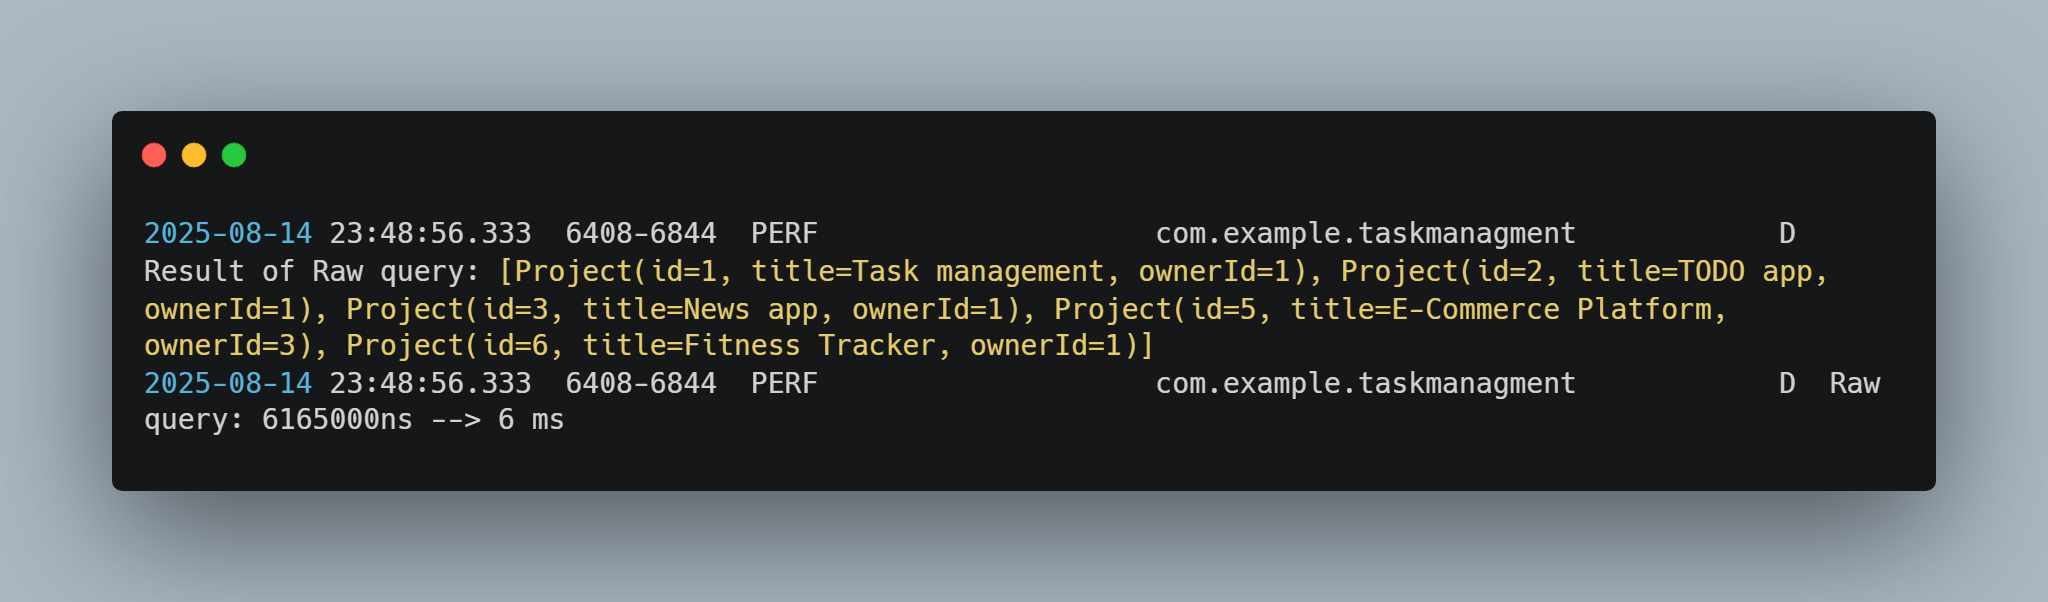
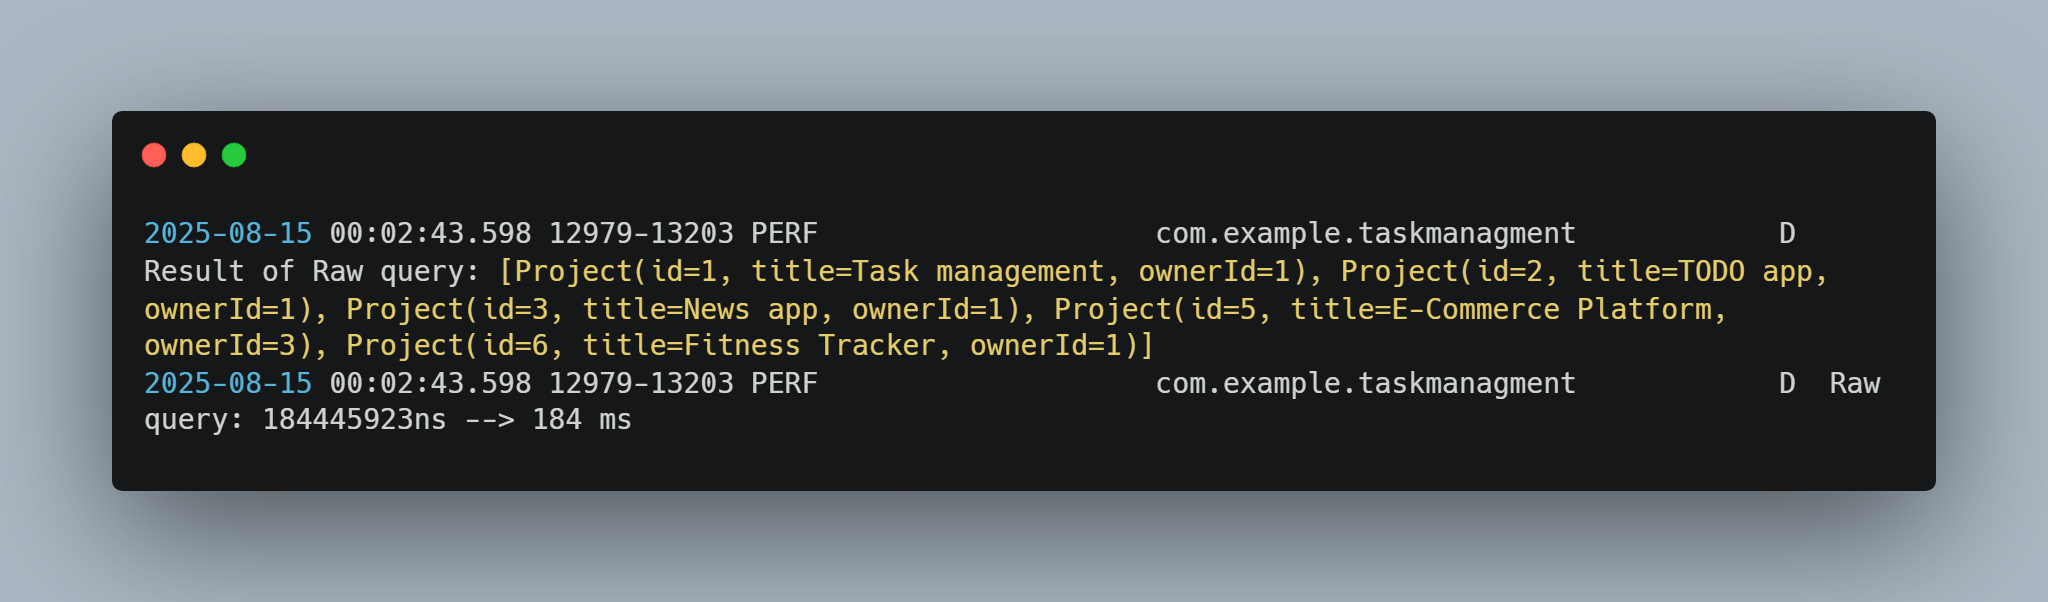
[🐞 BUG] Requirement 2.6 fixed 100 time execution

Changed region(s): [[0.125, 0.598, 0.375, 0.7176], [0.1562, 0.3588, 0.375, 0.4186]]

diff --git a/app/src/main/java/com/example/taskmanagment/testing/TestDatabase.kt b/app/src/main/java/com/example/taskmanagment/testing/TestDatabase.kt
@@ -247,11 +247,17 @@ suspend fun testQueryVsRawQuery(context: Context) {
 
     }
     var start = System.nanoTime()
+    for (i in 1..99) {
+        dao.getProjectsWithMoreThan3Tasks()
+    }
     var res = dao.getProjectsWithMoreThan3Tasks()
     var time = System.nanoTime() - start
     Log.d("PERF", "Result of Room query: $res")
     Log.d("PERF", "Room query: ${time}ns --> ${time / 1000000} ms")
     start = System.nanoTime()
+    for (i in 1..99) {
+        dao.getProjectsWithMoreThan3TasksRaw(getProjectsWithMoreThan3TasksQuery)
+    }
     res = dao.getProjectsWithMoreThan3TasksRaw(getProjectsWithMoreThan3TasksQuery)
     time = System.nanoTime() - start
     Log.d("PERF", "Result of Raw query: $res")

diff --git a/PerformanceReport.md b/PerformanceReport.md
@@ -1,4 +1,4 @@
-|            | Time (msec) | Note                                | Screenshots                               |
-| ---------- | ----------- | ----------------------------------- | ----------------------------------------- |
-| Room Query | 3 ms        | It's faster and easier in coding    | ![Room Query](screenshots/room_query.png) |
-| Raw Query  | 6 ms        | It's slower 2 times than Room query | ![Raw Query](screenshots/raw_query.png)   |
+|            | Time (msec) | Note                                                                                                  | Screenshots                               |
+| ---------- | ----------- | ----------------------------------------------------------------------------------------------------- | ----------------------------------------- |
+| Room Query | 168 ms      | It's faster and easier in coding but the difference isn't significant maybe because the data is small | ![Room Query](screenshots/room_query.png) |
+| Raw Query  | 184 ms      | It's slower than Room query but varies maybe because the data is small but most of time slower        | ![Raw Query](screenshots/raw_query.png)   |
